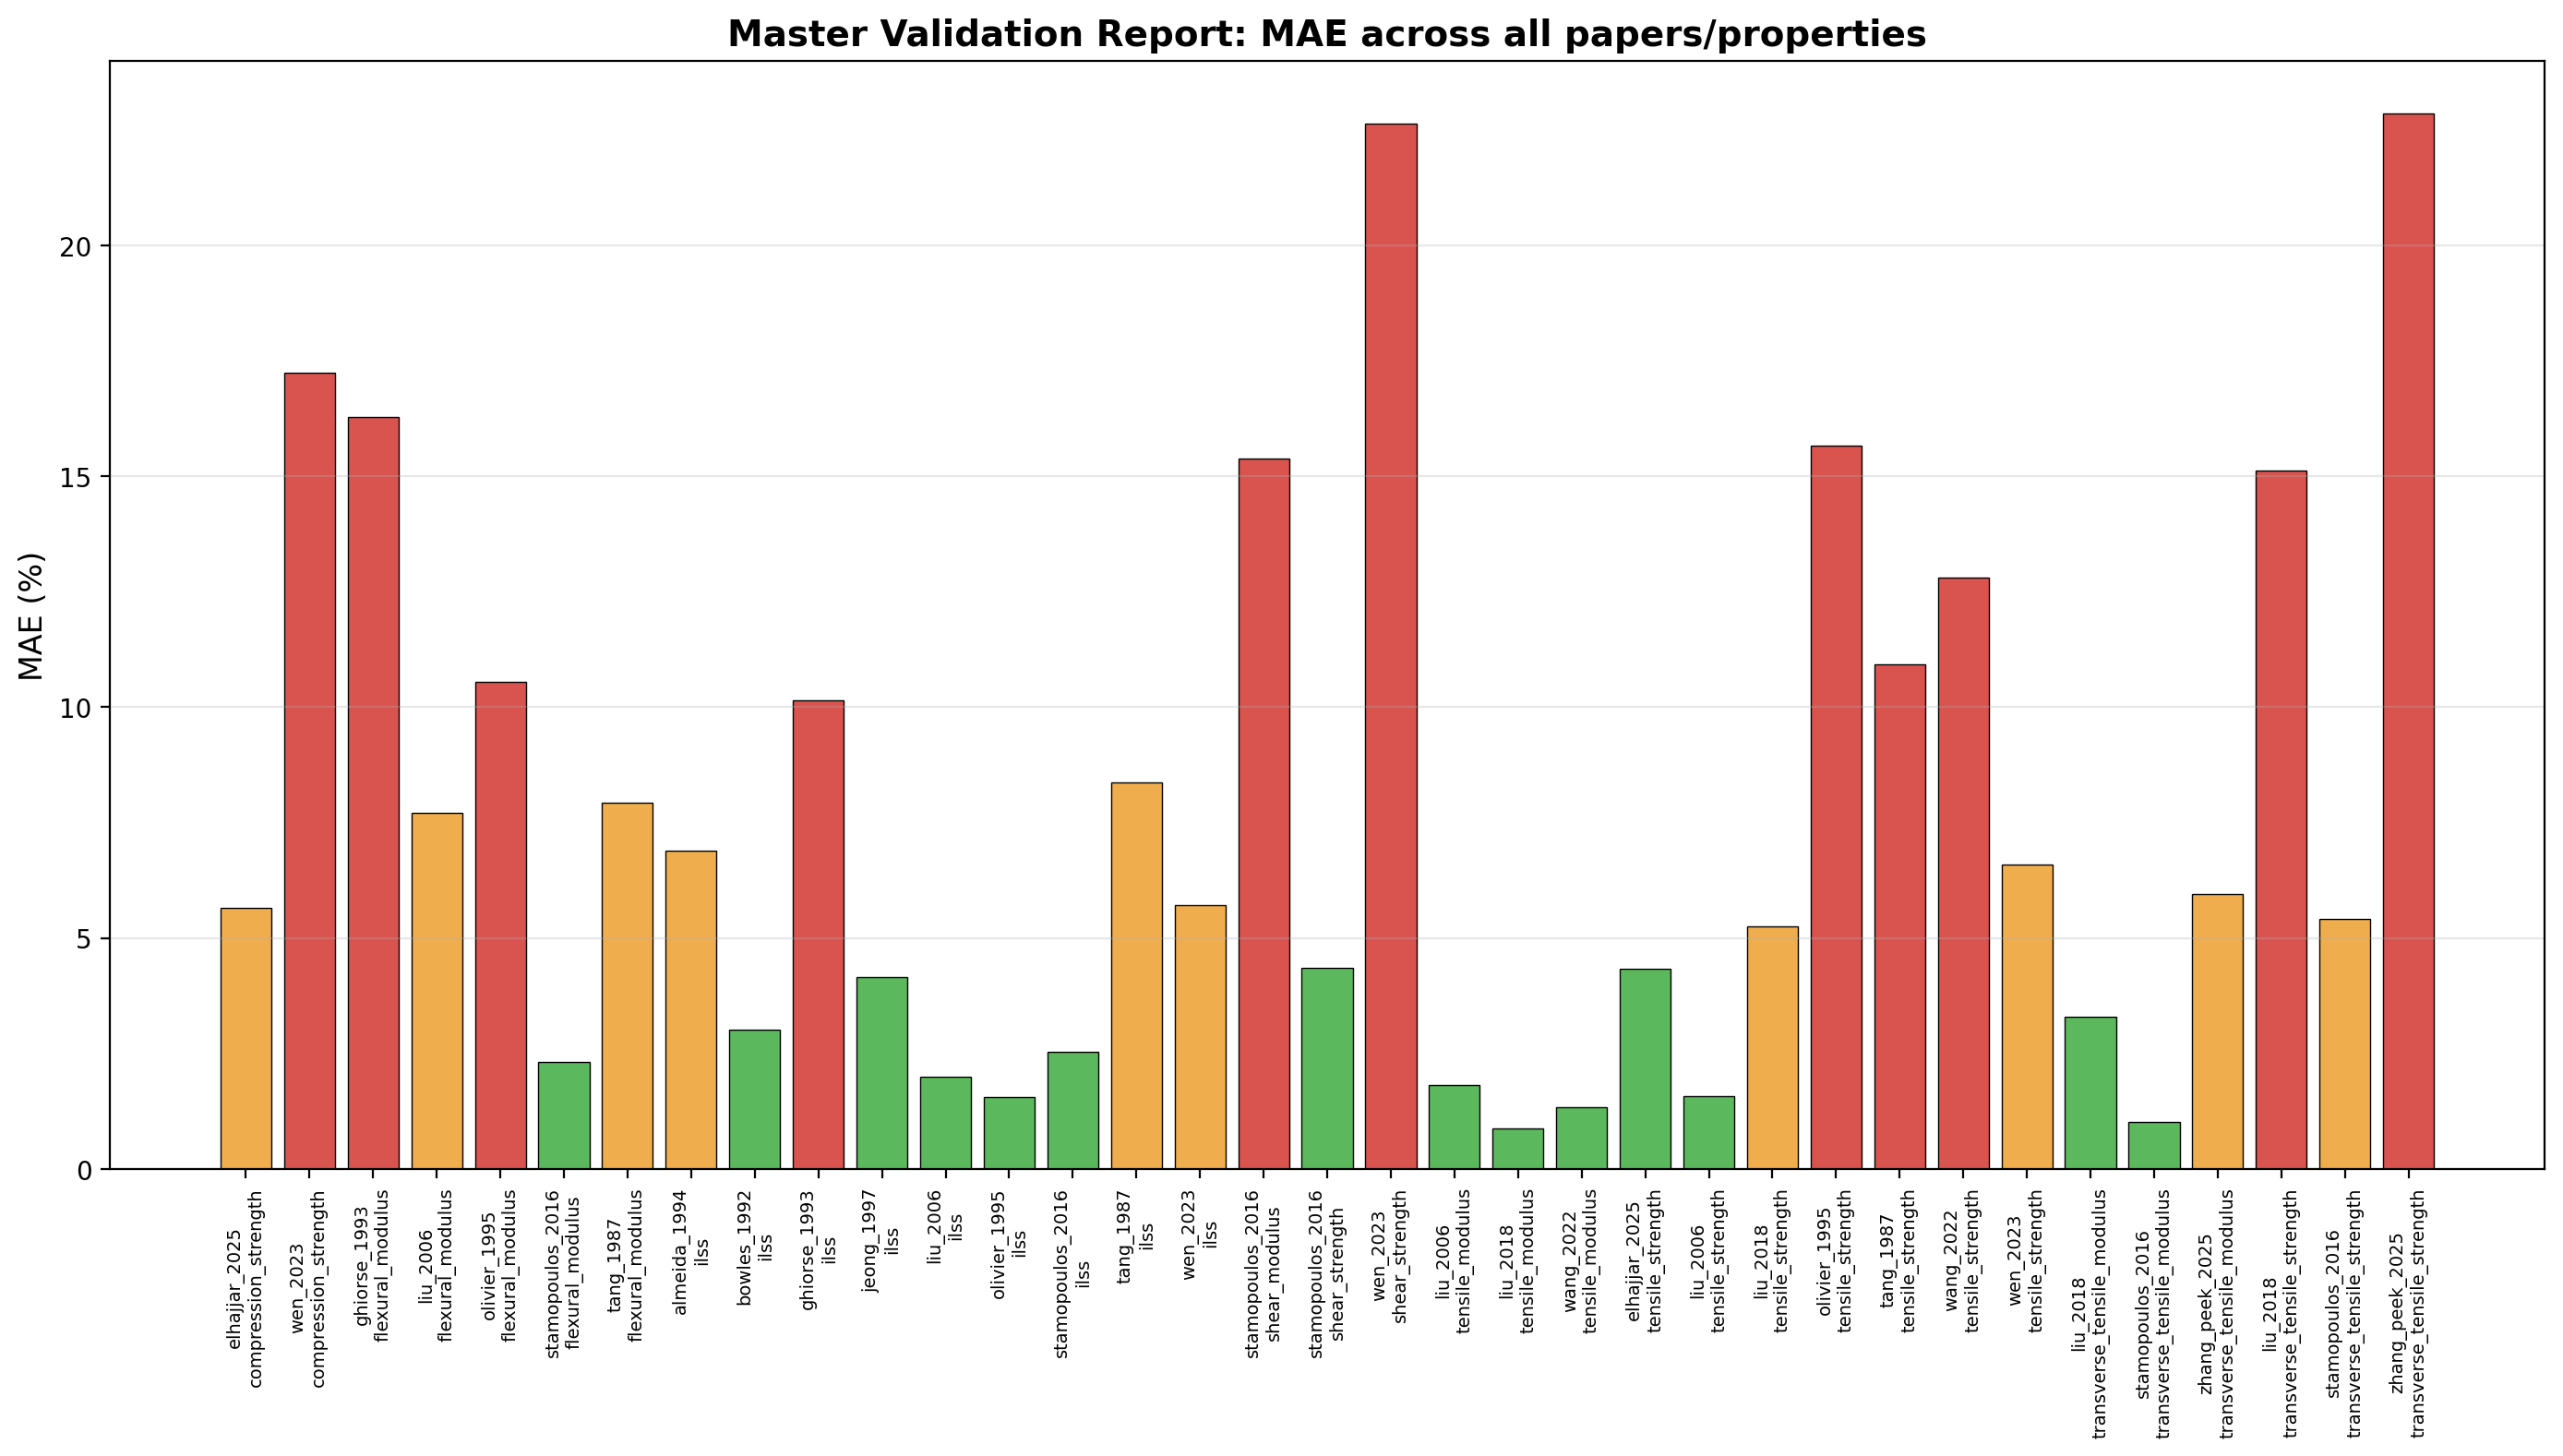
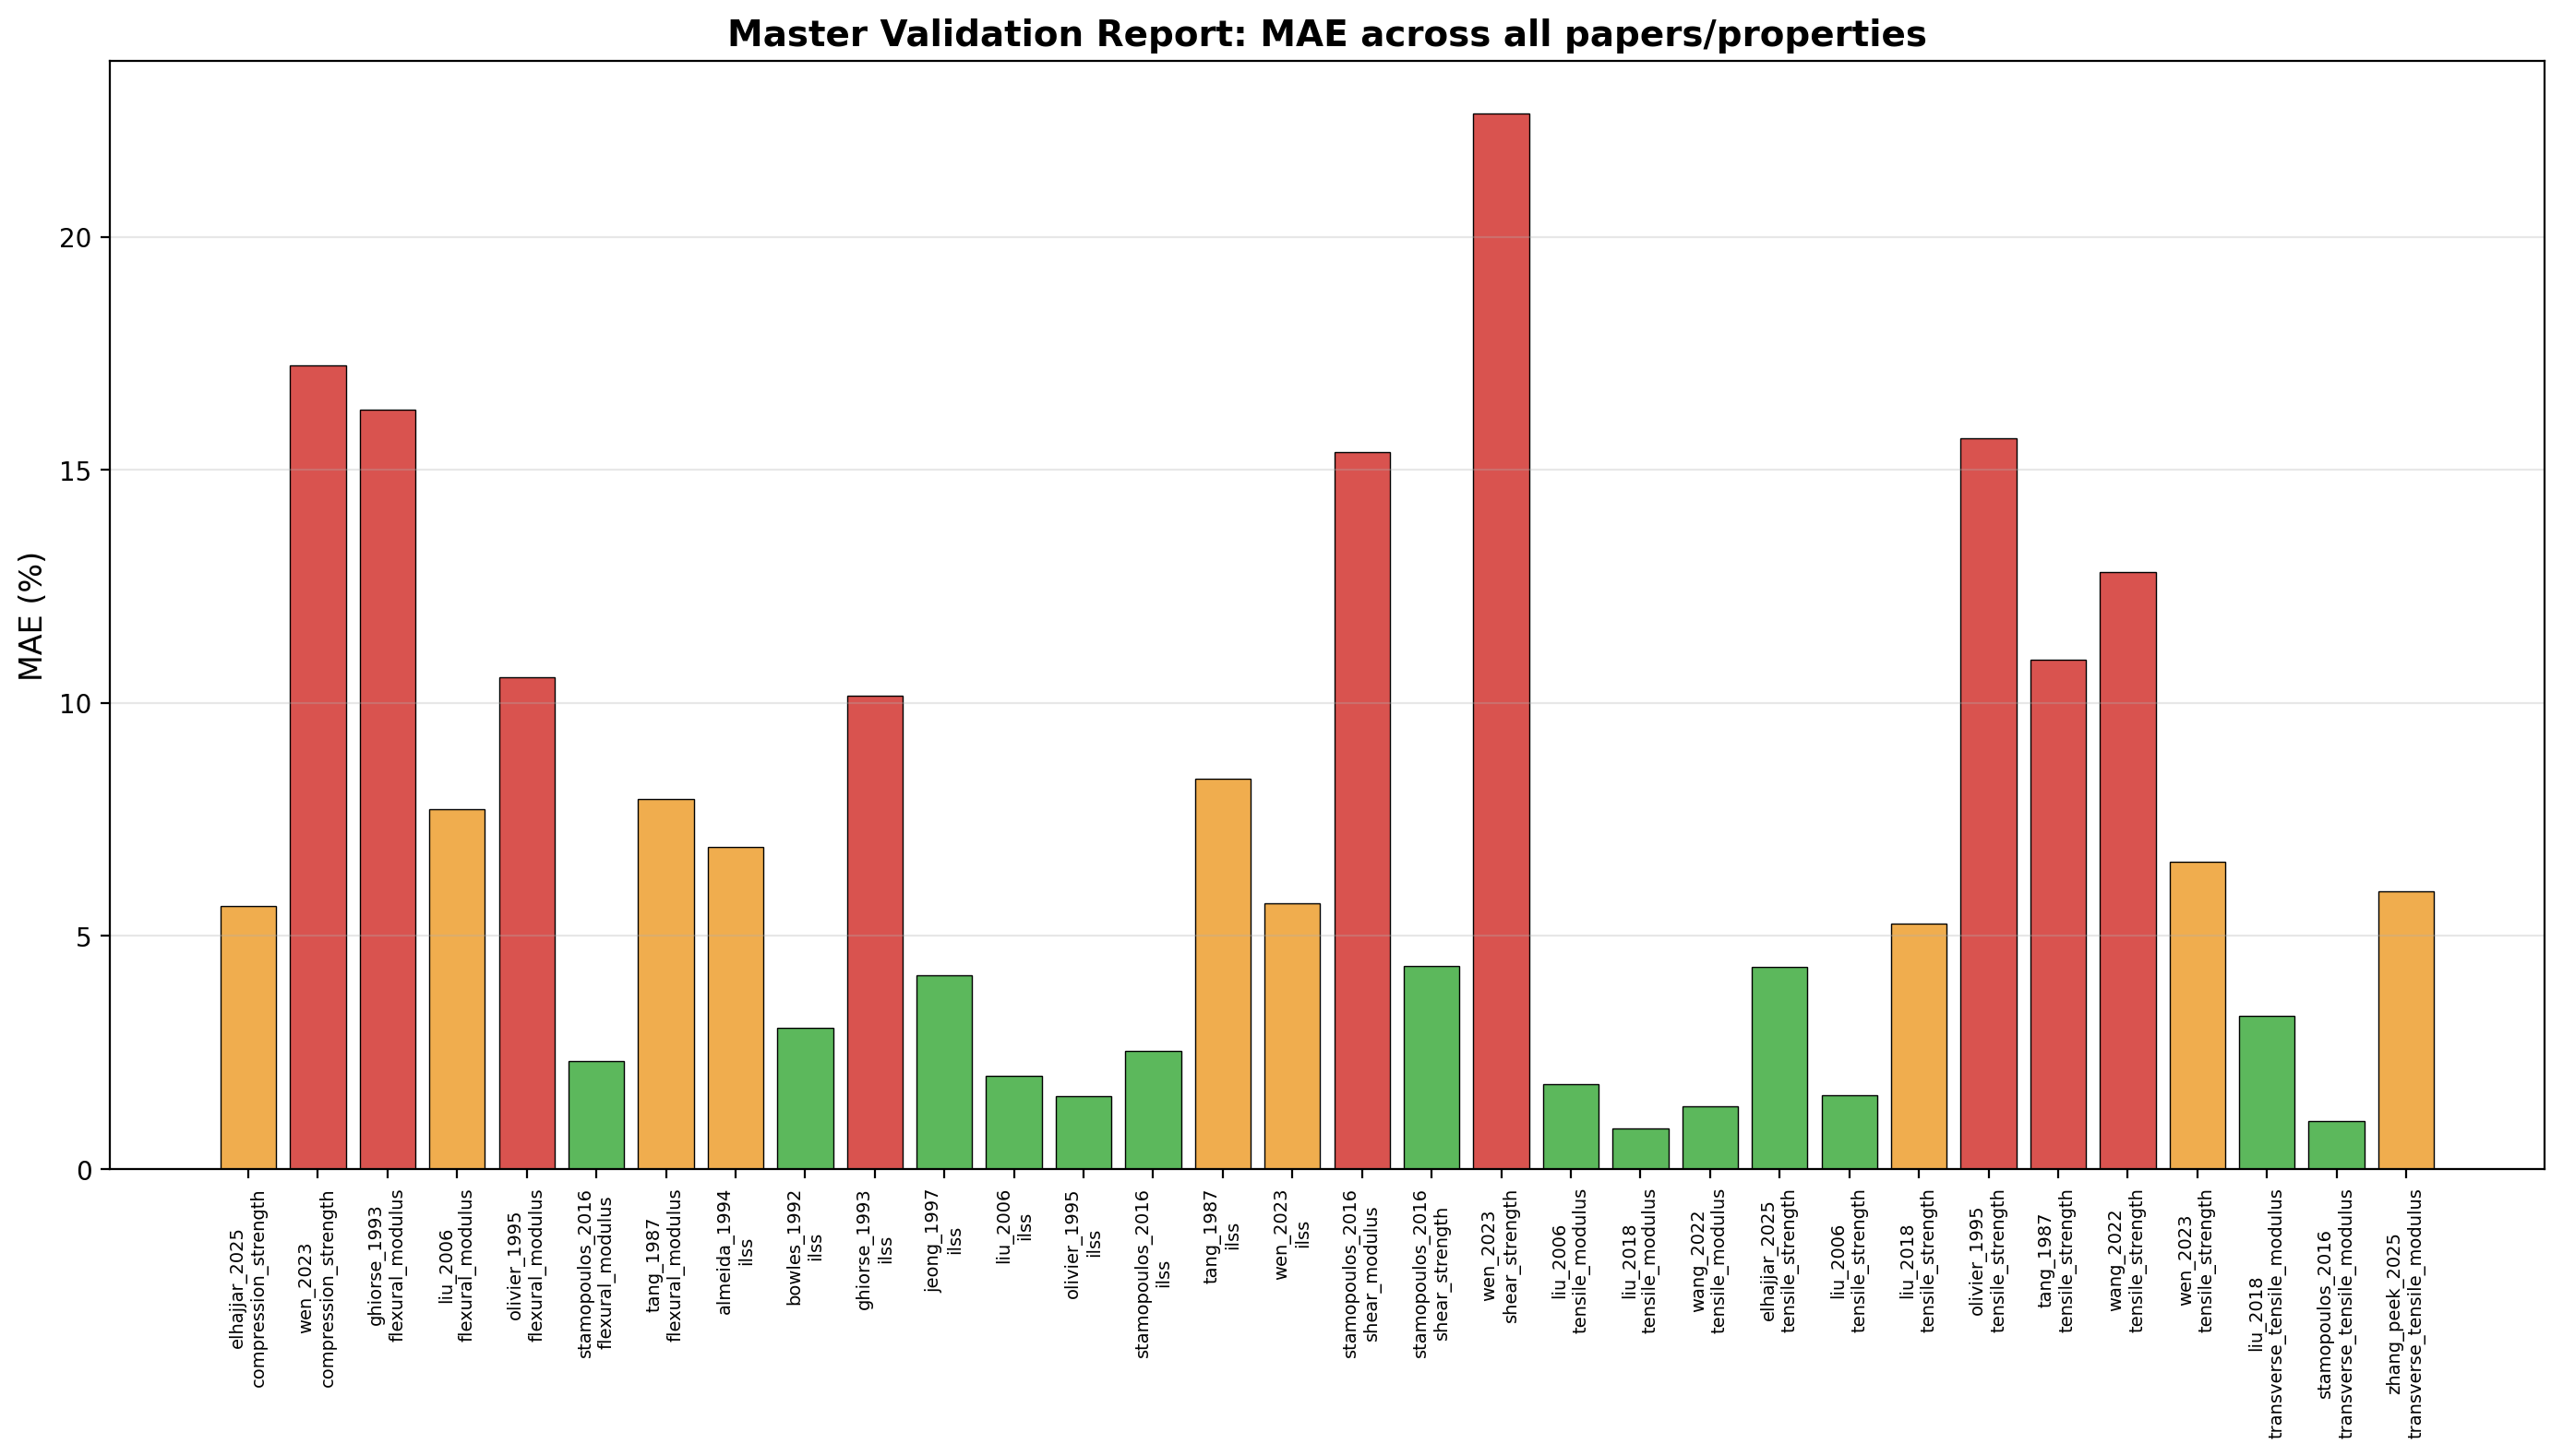
fix(validation): warn on unknown material mapping; fix transverse_tensile mode (#34, #35)
Issue #34 — resolve_material() previously used a silent .get(key,
'T700_epoxy') fallback when a dataset's (fiber, matrix) tuple was not
found in _FIBER_MATRIX_TO_PRESET.  This masked real material mismatches
with no observable signal.

Fix: resolve_material() now checks the dict explicitly and, on a miss,
emits warnings.warn(..., UserWarning) plus logger.warning() listing the
unknown (fiber, matrix) pair and the dataset reference name, then
proceeds with the 'T700_epoxy' fallback.  A new strict=True parameter
lets callers (e.g. CI) opt into a KeyError instead of a warning.

Five new tests cover: warning fires with correct content, strict raises
KeyError, known materials produce no warning, and the two Issue #35
behaviours below.

Issue #35 — 'transverse_tensile_strength' was mapped to the
longitudinal 'tension' failure mode in EmpiricalSolver.  EmpiricalSolver
calibrates its alpha/n coefficients against longitudinal (fiber-dominated)
data; applying them to a matrix-dominated transverse property is
physically incorrect and produced spurious MAE numbers (15–23% range in
the affected datasets, artificially inflating or masking model error).

Conservative fix chosen: exclude 'transverse_tensile_strength' from
_PROPERTY_TO_MODE and add it to _UNSUPPORTED_STRENGTH_PROPS.
run_all_datasets() now short-circuits these properties with a logger
warning and records {'skipped': <reason>} rather than {'mae': ...}.
predict_strength() raises ValueError immediately if called directly for
[…]

Changed region(s): [[0.0929, 0.0621, 0.96, 0.9937]]

diff --git a/tests/test_validation_database.py b/tests/test_validation_database.py
@@ -275,3 +275,134 @@ def test_liu_2006_validation_matches_existing():
     assert 'ilss' in liu
     # Historical Liu ILSS MAE was ~1.8%
     assert liu['ilss']['mae'] < 5.0
+
+
+# ---------------------------------------------------------------------------
+# Issue #34 — Unknown material mapping fires a UserWarning
+# ---------------------------------------------------------------------------
+
+def test_resolve_material_warns_on_unknown_fiber_matrix():
+    """Unknown (fiber, matrix) should emit a UserWarning with the missing key
+    and fall back to the default preset rather than silently proceeding."""
+    import warnings
+    from validation.validate_all import resolve_material
+
+    dataset = {
+        'reference': 'fake_unknown_2099',
+        'material': {
+            'fiber': 'UnknownFiberXYZ',
+            'matrix': 'UnknownMatrixABC',
+            'fiber_volume_fraction': 0.55,
+            'n_plies': 8,
+        }
+    }
+
+    with warnings.catch_warnings(record=True) as w:
+        warnings.simplefilter('always')
+        mat = resolve_material(dataset)
+        # At least one UserWarning should have been raised
+        user_warnings = [x for x in w if issubclass(x.category, UserWarning)]
+        assert len(user_warnings) >= 1, (
+            "Expected a UserWarning for unknown (fiber, matrix) but got none"
+        )
+        msg = str(user_warnings[0].message)
+        assert 'UnknownFiberXYZ' in msg, f"Warning did not mention fiber: {msg}"
+        assert 'UnknownMatrixABC' in msg, f"Warning did not mention matrix: {msg}"
+        assert 'fake_unknown_2099' in msg, f"Warning did not mention dataset name: {msg}"
+
+    # Fallback should still return a valid MaterialProperties object
+    assert mat is not None
+    assert mat.n_plies == 8
+    assert abs(mat.fiber_volume_fraction - 0.55) < 1e-6
+
+
+def test_resolve_material_strict_raises_on_unknown():
+    """strict=True should raise KeyError instead of warning and falling back."""
+    from validation.validate_all import resolve_material
+
+    dataset = {
+        'reference': 'strict_test_dataset',
+        'material': {
+            'fiber': 'UnknownFiberXYZ',
+            'matrix': 'UnknownMatrixABC',
+            'fiber_volume_fraction': 0.55,
+            'n_plies': 8,
+        }
+    }
+
+    import pytest
+    with pytest.raises(KeyError, match='UnknownFiberXYZ'):
+        resolve_material(dataset, strict=True)
+
+
+def test_resolve_material_no_warning_for_known_fiber_matrix():
+    """Known (fiber, matrix) combinations must NOT emit any warning."""
+    import warnings
+    from validation.validate_all import resolve_material
+
+    dataset = {
+        'reference': 'known_material_test',
+        'material': {
+            'fiber': 'T700',
+            'matrix': 'TDE85 epoxy',
+            'fiber_volume_fraction': 0.60,
+            'n_plies': 10,
+        }
+    }
+
+    with warnings.catch_warnings(record=True) as w:
+        warnings.simplefilter('always')
+        resolve_material(dataset)
+        user_warnings = [x for x in w if issubclass(x.category, UserWarning)]
+        assert len(user_warnings) == 0, (
+            f"Unexpected UserWarning for known material: {[str(x.message) for x in user_warnings]}"
+        )
+
+
+# ---------------------------------------------------------------------------
+# Issue #35 — transverse_tensile_strength is skipped, not misrouted
+# ---------------------------------------------------------------------------
+
+def test_transverse_tensile_strength_is_skipped_in_run_all():
+    """Datasets with transverse_tensile_strength should show 'skipped' rather
+    than a spurious MAE computed via the wrong (longitudinal) failure mode."""
+    from validation.validate_all import run_all_datasets
+    results = run_all_datasets()
+
+    datasets_with_transverse = ['zhang_peek_2025', 'liu_2018', 'stamopoulos_2016']
+    for ds_name in datasets_with_transverse:
+        if ds_name not in results:
+            continue  # dataset might not be present in all environments
+        ds = results[ds_name]
+        if 'transverse_tensile_strength' not in ds:
+            continue
+        entry = ds['transverse_tensile_strength']
+        assert 'skipped' in entry, (
+            f"Expected 'skipped' for {ds_name}/transverse_tensile_strength "
+            f"but got: {entry}"
+        )
+        assert 'mae' not in entry, (
+            f"transverse_tensile_strength for {ds_name} should not have an MAE "
+            "(would be computed via wrong physics)"
+        )
+
+
+def test_predict_strength_raises_for_transverse_tensile():
+    """predict_strength should raise ValueError for transverse_tensile_strength."""
+    import pytest
+    from validation.validate_all import predict_strength
+
+    dataset = {
+        'reference': 'transverse_test',
+        'material': {
+            'fiber': 'T700',
+            'matrix': 'TDE85 epoxy',
+            'fiber_volume_fraction': 0.60,
+            'n_plies': 12,
+            'ply_angles': [0, 90, 0, 90, 0, 90, 90, 0, 90, 0, 90, 0],
+        },
+        'baseline_porosity_pct': 0.0,
+    }
+
+    with pytest.raises(ValueError, match='transverse_tensile_strength'):
+        predict_strength(dataset, 'transverse_tensile_strength', [1.0, 2.0, 3.0])

diff --git a/validation/validate_all.py b/validation/validate_all.py
@@ -5,7 +5,10 @@ import json
 import logging
 import os
 import sys
+import warnings
 from typing import Dict, Any
+
+logger = logging.getLogger(__name__)
 
 sys.path.insert(0, os.path.dirname(os.path.dirname(os.path.abspath(__file__))))
 
@@ -68,14 +71,40 @@ _FIBER_MATRIX_TO_PRESET = {
 }
 
 
-def resolve_material(dataset: Dict[str, Any]) -> MaterialProperties:
+def resolve_material(dataset: Dict[str, Any], strict: bool = False) -> MaterialProperties:
     """Build a MaterialProperties instance from a dataset's material block.
 
     Selects the closest preset from MATERIALS based on fiber/matrix, then
     overrides n_plies and fiber_volume_fraction from the dataset.
+
+    Parameters
+    ----------
+    dataset:
+        A validated dataset dict containing a ``'material'`` block.
+    strict:
+        If ``True``, raise a ``KeyError`` when the (fiber, matrix) pair is not
+        found in ``_FIBER_MATRIX_TO_PRESET`` instead of falling back to the
+        default preset.  Useful for CI checks that want to catch new materials
+        that have not yet been mapped.
+
+    Raises
+    ------
+    KeyError
+        Only when *strict* is ``True`` and the (fiber, matrix) key is absent.
     """
     m = dataset['material']
     key = (m['fiber'], m['matrix'])
+    dataset_name = dataset.get('reference', str(key))
+    if key not in _FIBER_MATRIX_TO_PRESET:
+        msg = (
+            f"Unknown (fiber, matrix) combination {key!r} in dataset "
+            f"{dataset_name!r}; falling back to default preset 'T700_epoxy'. "
+            "Add this combination to _FIBER_MATRIX_TO_PRESET to silence this warning."
+        )
+        if strict:
+            raise KeyError(msg)
+        warnings.warn(msg, UserWarning, stacklevel=2)
+        logger.warning(msg)
     preset_name = _FIBER_MATRIX_TO_PRESET.get(key, 'T700_epoxy')
     base = MATERIALS[preset_name]
     return dataclasses.replace(
@@ -93,10 +122,21 @@ from porosity_fe_analysis import (
 _PROPERTY_TO_MODE = {
     'compression_strength': 'compression',
     'tensile_strength': 'tension',
-    'transverse_tensile_strength': 'tension',
+    # 'transverse_tensile_strength' is intentionally excluded: EmpiricalSolver
+    # supports only longitudinal modes ('tension', 'compression', 'shear',
+    # 'ilss').  Routing a transverse property to the longitudinal 'tension' mode
+    # produces physically incorrect alpha/n coefficients (fiber-dominated vs.
+    # matrix-dominated failure).  Until a calibrated 'transverse_tension' mode
+    # is added to EmpiricalSolver, transverse_tensile_strength is skipped in
+    # MAE calculations.  See GitHub issue #35.
     'shear_strength': 'shear',
     'ilss': 'ilss',
 }
+
+# Properties that cannot currently be predicted by EmpiricalSolver due to
+# missing calibrated failure modes.  They are skipped with a logged warning
+# rather than silently misrouted to the wrong physics.
+_UNSUPPORTED_STRENGTH_PROPS = {'transverse_tensile_strength'}
 
 
 def predict_strength(dataset: Dict[str, Any], prop_key: str,
@@ -104,7 +144,24 @@ def predict_strength(dataset: Dict[str, Any], prop_key: str,
     """Predict normalized strength at each porosity level via Judd-Wright.
 
     Renormalized to the dataset's baseline_porosity_pct.
+
+    Raises
+    ------
+    ValueError
+        If *prop_key* is in ``_UNSUPPORTED_STRENGTH_PROPS`` (e.g.
+        ``'transverse_tensile_strength'``), because EmpiricalSolver has no
+        calibrated failure mode for it and silently misrouting it would yield
+        incorrect physics.  The caller (``run_all_datasets``) logs a warning and
+        records an error entry instead of raising to the user.
     """
+    if prop_key in _UNSUPPORTED_STRENGTH_PROPS:
+        msg = (
+            f"Property '{prop_key}' is not supported by EmpiricalSolver: no "
+            "calibrated transverse failure mode exists.  Skipping MAE calculation "
+            "to avoid physically incorrect predictions.  See issue #35."
+        )
+        logger.warning(msg)
+        raise ValueError(msg)
     mat = resolve_material(dataset)
     ply_angles = dataset['material']['ply_angles']
     mode = _PROPERTY_TO_MODE[prop_key]
@@ -242,6 +299,14 @@ def run_all_datasets(datasets_dir: str = None) -> Dict[str, Any]:
         for prop_key, prop_data in data['properties'].items():
             vp = prop_data['void_content_pct']
             exp = prop_data['normalized_values']
+            if prop_key in _UNSUPPORTED_STRENGTH_PROPS:
+                skip_msg = (
+                    f"Skipping '{prop_key}' for dataset '{name}': no calibrated "
+                    "EmpiricalSolver mode available (see issue #35)."
+                )
+                logger.warning(skip_msg)
+                dataset_results[prop_key] = {'skipped': skip_msg}
+                continue
             try:
                 if prop_key in _MODULUS_PROPS:
                     pred = predict_modulus(data, prop_key, vp)
@@ -284,7 +349,7 @@ def generate_master_report(results: Dict[str, Any], output_dir: str = None):
         if 'error' in ds_results:
             continue
         for prop, prop_result in ds_results.items():
-            if 'error' in prop_result:
+            if 'error' in prop_result or 'skipped' in prop_result:
                 continue
             by_property.setdefault(prop, []).append({
                 'dataset': ds_name,
@@ -350,7 +415,9 @@ def generate_master_report(results: Dict[str, Any], output_dir: str = None):
             continue
         for prop in sorted(ds_results.keys()):
             r = ds_results[prop]
-            if 'error' in r:
+            if 'skipped' in r:
+                md_lines.append(f"| {ds_name} | {prop} | - | SKIPPED (no model) |")
+            elif 'error' in r:
                 md_lines.append(f"| {ds_name} | {prop} | - | ERROR |")
             else:
                 md_lines.append(f"| {ds_name} | {prop} | {r['n_points']} | {r['mae']:.2f} |")

diff --git a/validation/validation_detail_report.md b/validation/validation_detail_report.md
@@ -16,7 +16,7 @@
 | liu_2018 | tensile_modulus | 6 | 0.86 |
 | liu_2018 | tensile_strength | 6 | 5.26 |
 | liu_2018 | transverse_tensile_modulus | 6 | 3.29 |
-| liu_2018 | transverse_tensile_strength | 6 | 15.12 |
+| liu_2018 | transverse_tensile_strength | - | SKIPPED (no model) |
 | olivier_1995 | flexural_modulus | 6 | 10.55 |
 | olivier_1995 | ilss | 6 | 1.55 |
 | olivier_1995 | tensile_strength | 6 | 15.67 |
@@ -25,7 +25,7 @@
 | stamopoulos_2016 | shear_modulus | 4 | 15.39 |
 | stamopoulos_2016 | shear_strength | 4 | 4.35 |
 | stamopoulos_2016 | transverse_tensile_modulus | 4 | 1.02 |
-| stamopoulos_2016 | transverse_tensile_strength | 4 | 5.41 |
+| stamopoulos_2016 | transverse_tensile_strength | - | SKIPPED (no model) |
 | tang_1987 | flexural_modulus | 5 | 7.93 |
 | tang_1987 | ilss | 5 | 8.37 |
 | tang_1987 | tensile_strength | 5 | 10.92 |
@@ -36,4 +36,4 @@
 | wen_2023 | shear_strength | 5 | 22.64 |
 | wen_2023 | tensile_strength | 5 | 6.58 |
 | zhang_peek_2025 | transverse_tensile_modulus | 5 | 5.96 |
-| zhang_peek_2025 | transverse_tensile_strength | 5 | 22.86 |
+| zhang_peek_2025 | transverse_tensile_strength | - | SKIPPED (no model) |